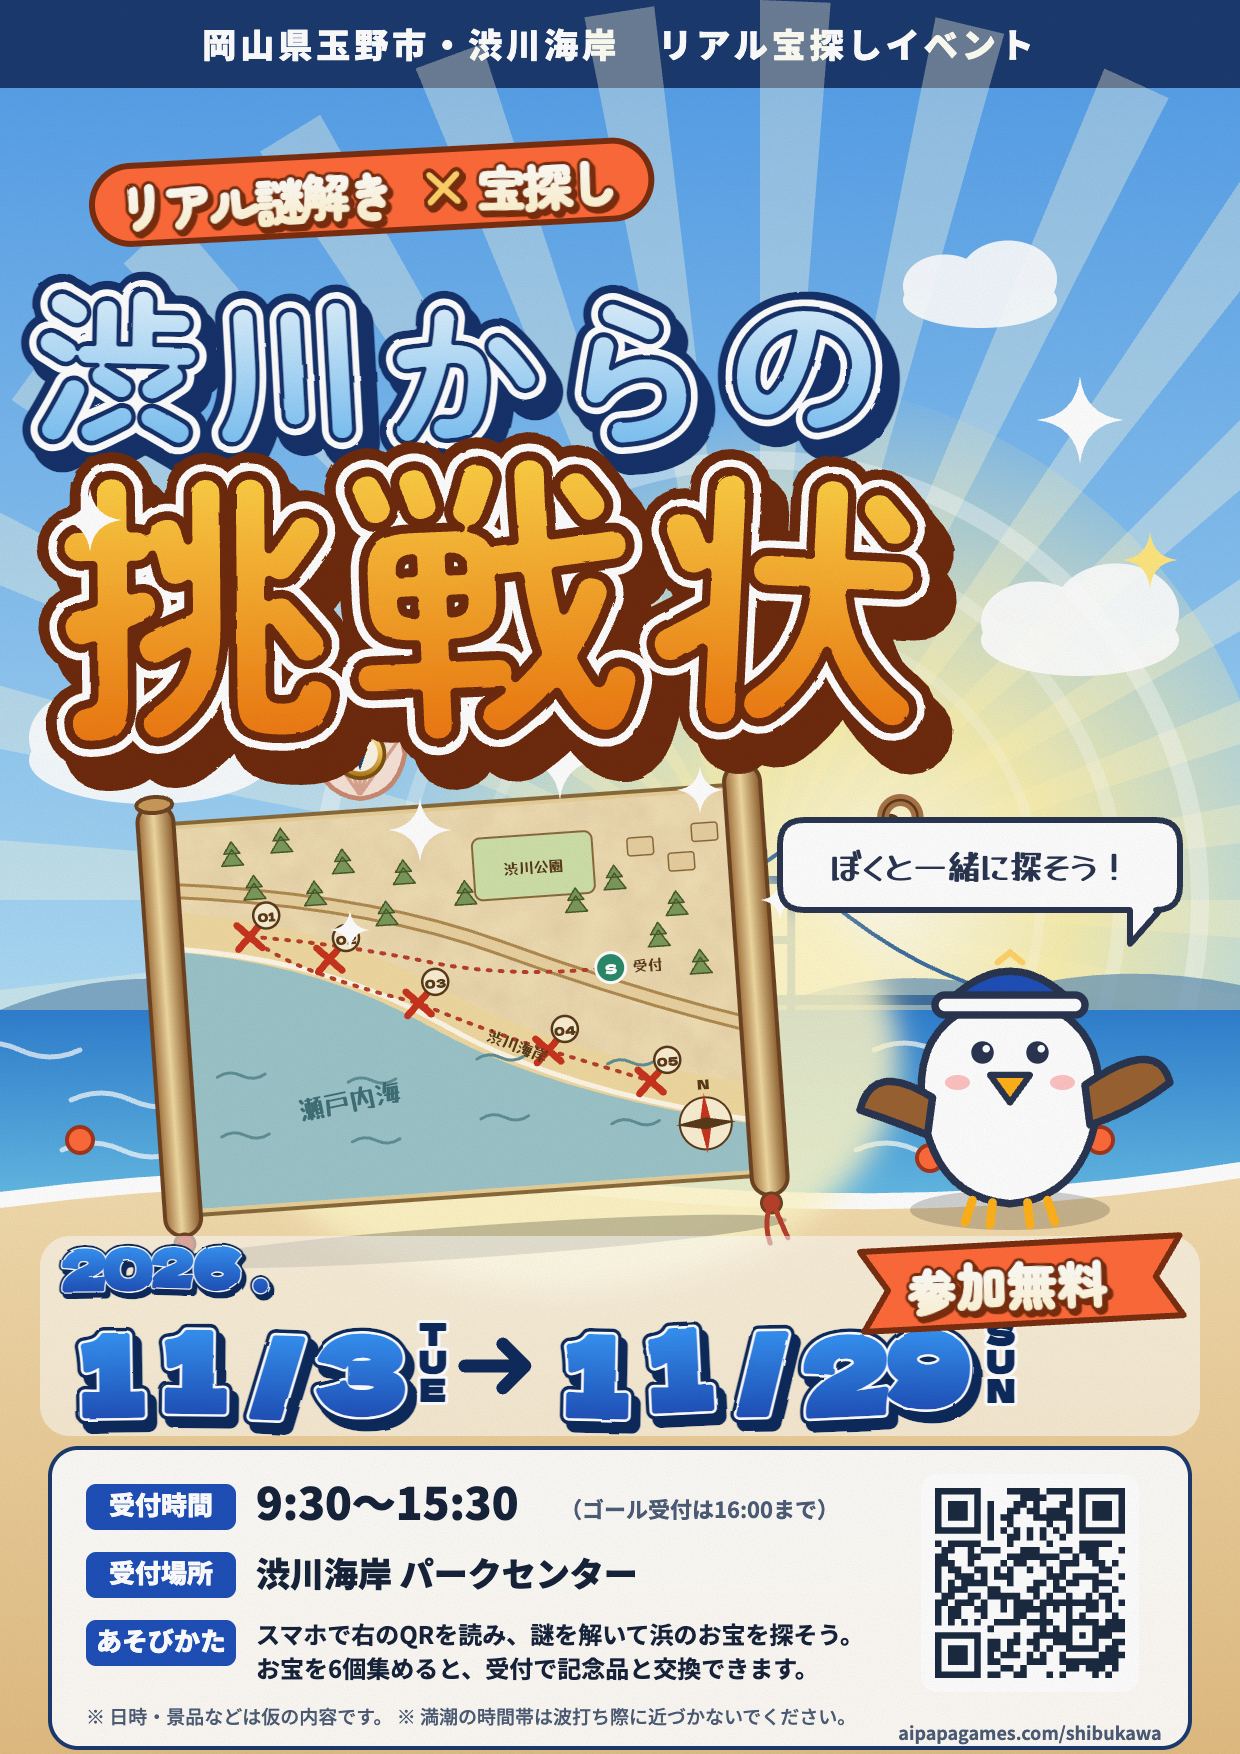
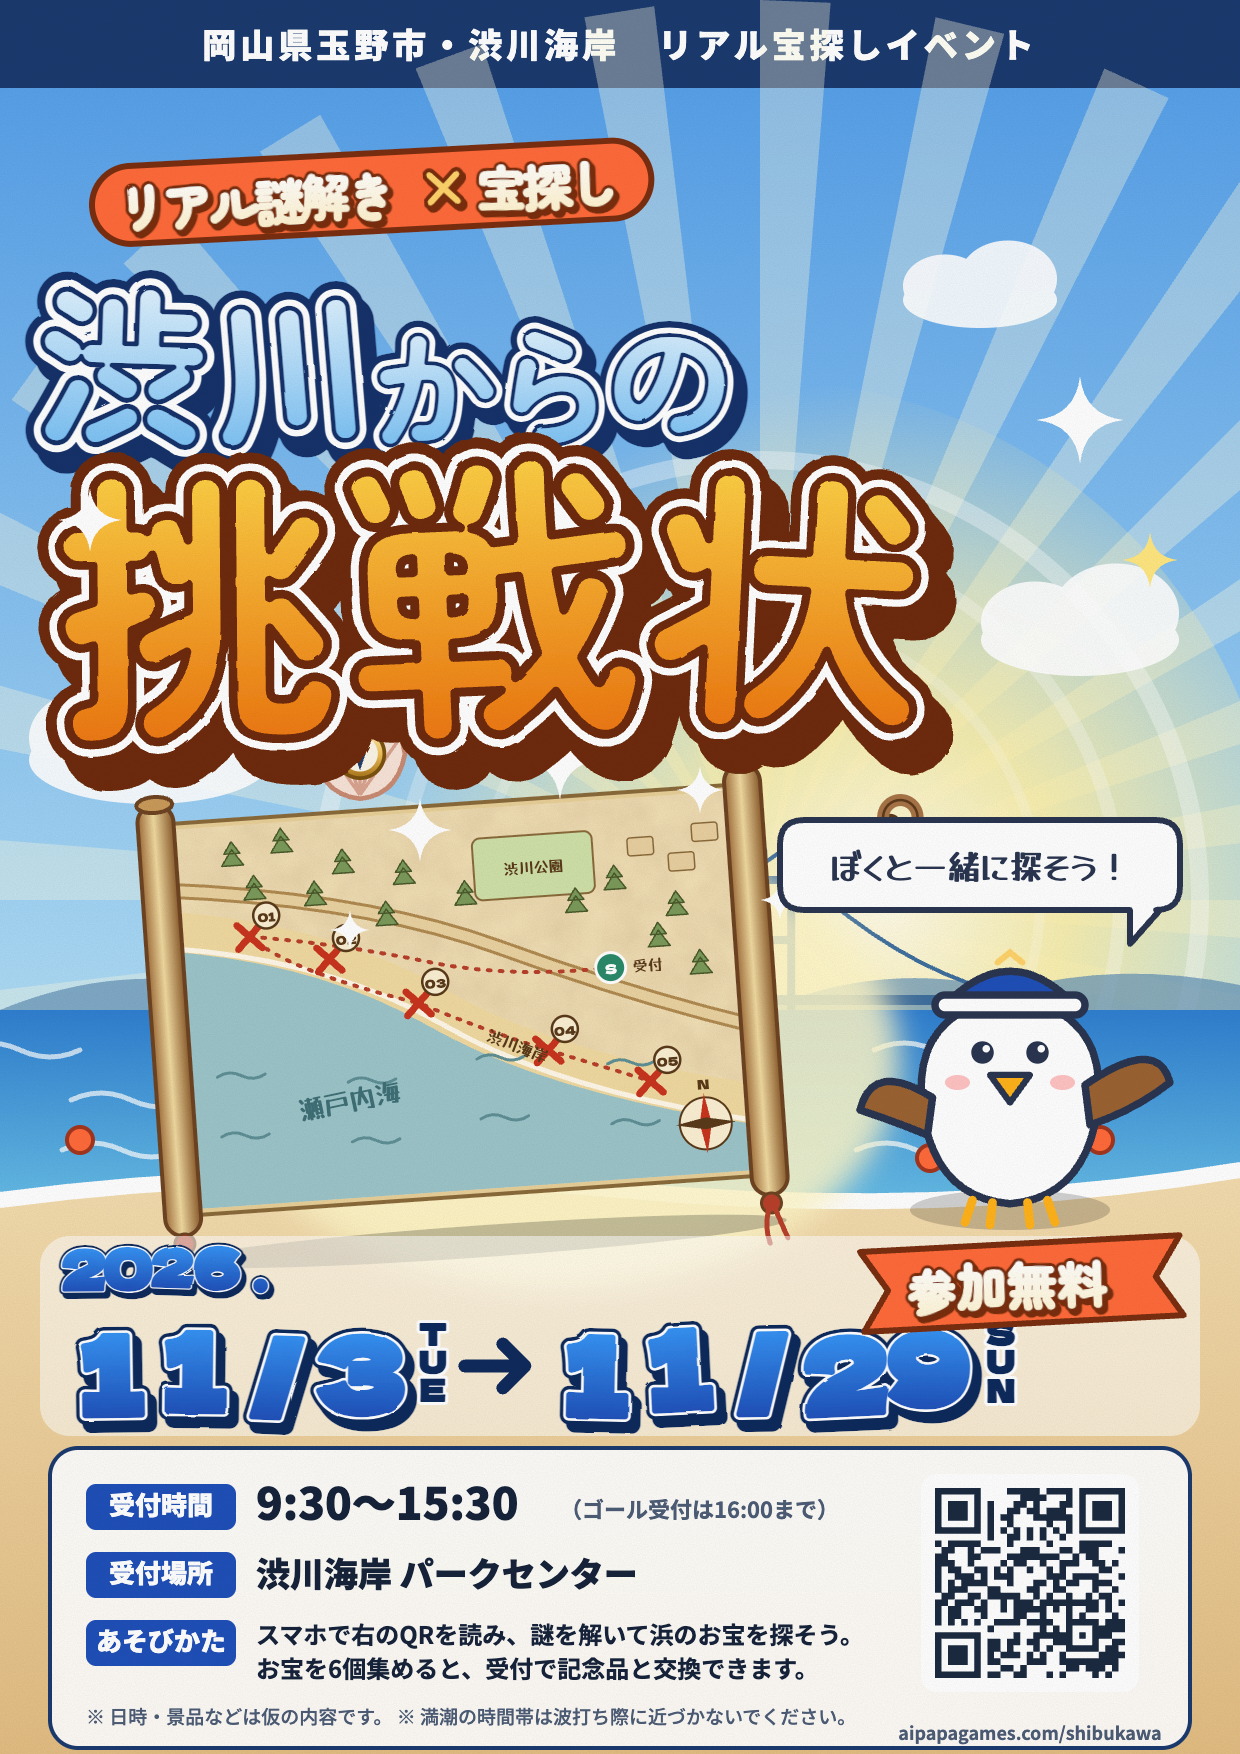
Flyers: smaller, tighter hiragana in the title

Changed region(s): [[0.0, 0.1539, 0.7355, 0.2771]]

diff --git a/design/flyers/index.html b/design/flyers/index.html
@@ -294,7 +294,14 @@ function titleA(tv) {
   const v4a = { ...v2a, gap: 1.06, rot: 4, x: 118, size: 162 }
   const pick = [[base1, base2], [v1a, v1b], [v2a, v2b], [v3a, v3b], [v4a, v2b]][tv]
   seed = 11
-  return lettering(tv === 4 ? ['渋', '川', 'か', 'ら', 'の'] : t1, pick[0]) + lettering(t2, pick[1])
+  if (tv === 4) {
+    // 漢字（渋川）は大きく、ひらがな（からの）は小さく詰めて、下をそろえる
+    const k = { ...v2a, size: 166, gap: 1.0, x: 124 }
+    const kanaSize = 132
+    const kana = { ...v2a, size: kanaSize, gap: 0.9, x: k.x + k.size * k.gap * 2 - k.size * 0.5 + kanaSize * 0.5 - 6, y: k.y + (k.size - kanaSize) / 2, outW: 28, whiteW: 15 }
+    return lettering(['渋', '川'], k) + lettering(['か', 'ら', 'の'], kana) + lettering(t2, pick[1])
+  }
+  return lettering(t1, pick[0]) + lettering(t2, pick[1])
 }
 
 function posterA(mapKind = 'chest', tv = 0) {
